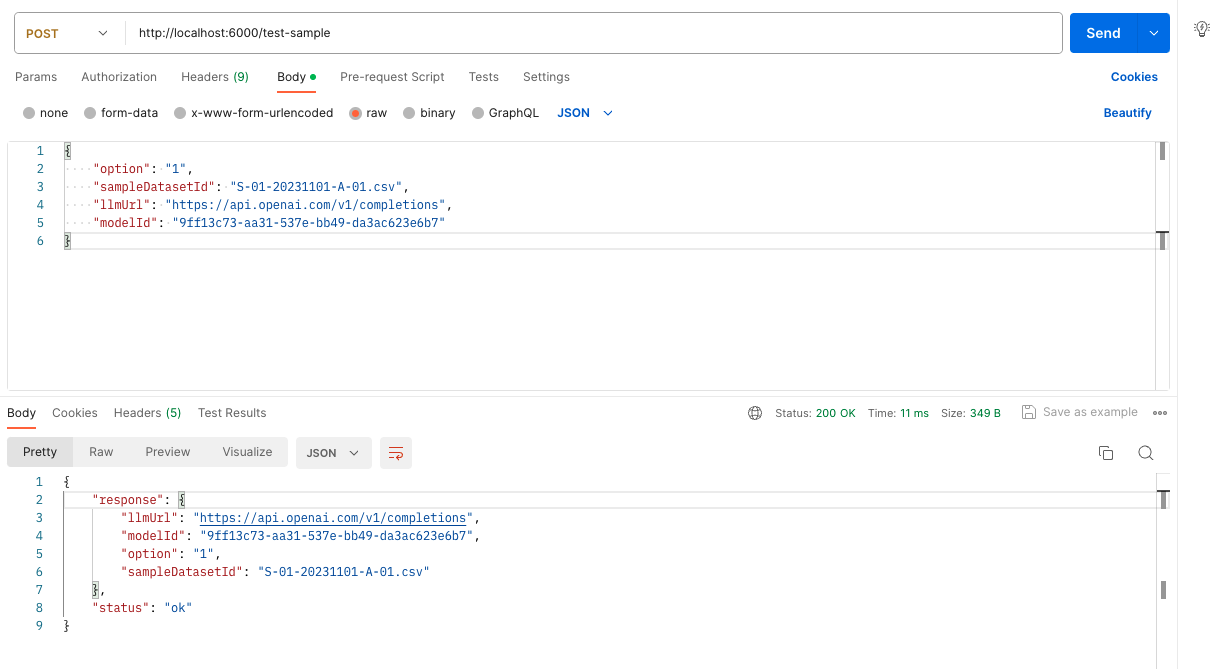
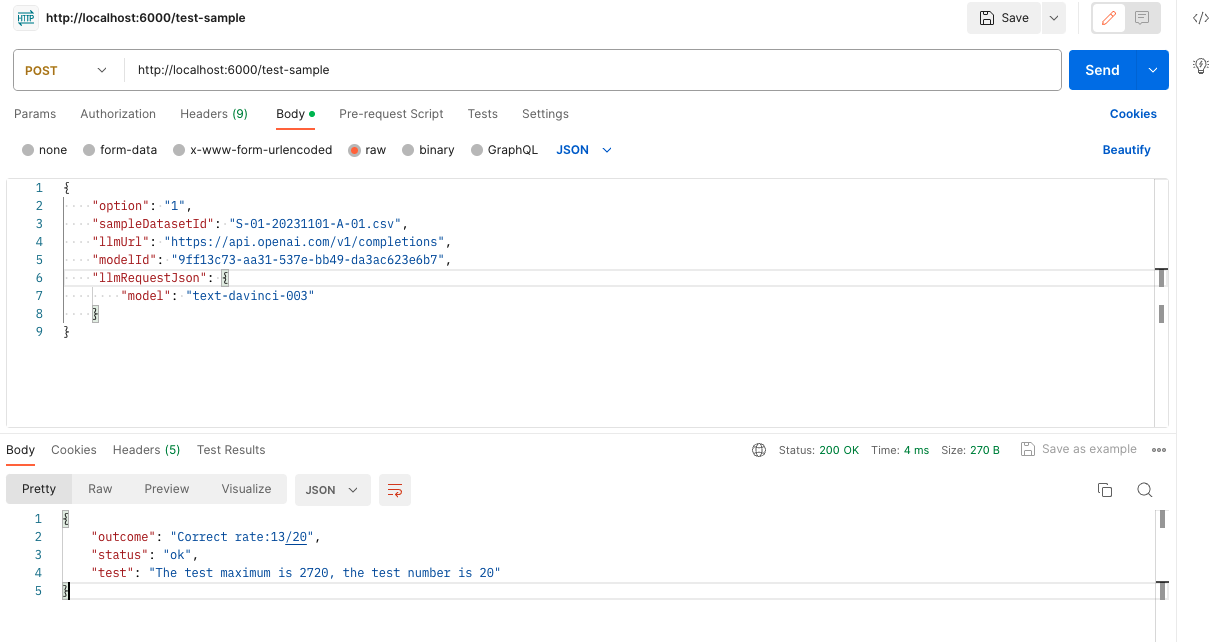
Update

diff --git a/app.py b/app.py
@@ -10,13 +10,16 @@ def doing():
     sample_dataset_id = request_data['sampleDatasetId']
     model_id = request_data['modelId']
     llm_url = request_data['llmUrl']
+    llm_request_json = request_data['llmRequestJson']
     print(f"option: {option}")
     print(f"sample_dataset_id: {sample_dataset_id}")
     print(f"model_id: {model_id}")
     print(f"llm_url: {llm_url}")
+    print(f"llm_request_json: {llm_request_json}")
     return jsonify({
         "status": "ok",
-        "response": request_data,
+        "test": "The test maximum is 2720, the test number is 20",
+        "outcome": "Correct rate:13/20",
     }) 
   
 if __name__ == '__main__':

diff --git a/README.md b/README.md
@@ -12,7 +12,18 @@
     "option": "1",
     "sampleDatasetId": "S-01-20231101-A-01.csv",
     "llmUrl": "https://api.openai.com/v1/completions",
-    "modelId": "9ff13c73-aa31-537e-bb49-da3ac623e6b7"
+    "modelId": "9ff13c73-aa31-537e-bb49-da3ac623e6b7",
+    "llmRequestJson": {
+        "model": "text-davinci-003"
+    }
+}
+```
+* Response
+```
+{
+    "outcome": "Correct rate:13/20",
+    "status": "ok",
+    "test": "The test maximum is 2720, the test number is 20"
 }
 ```
 
